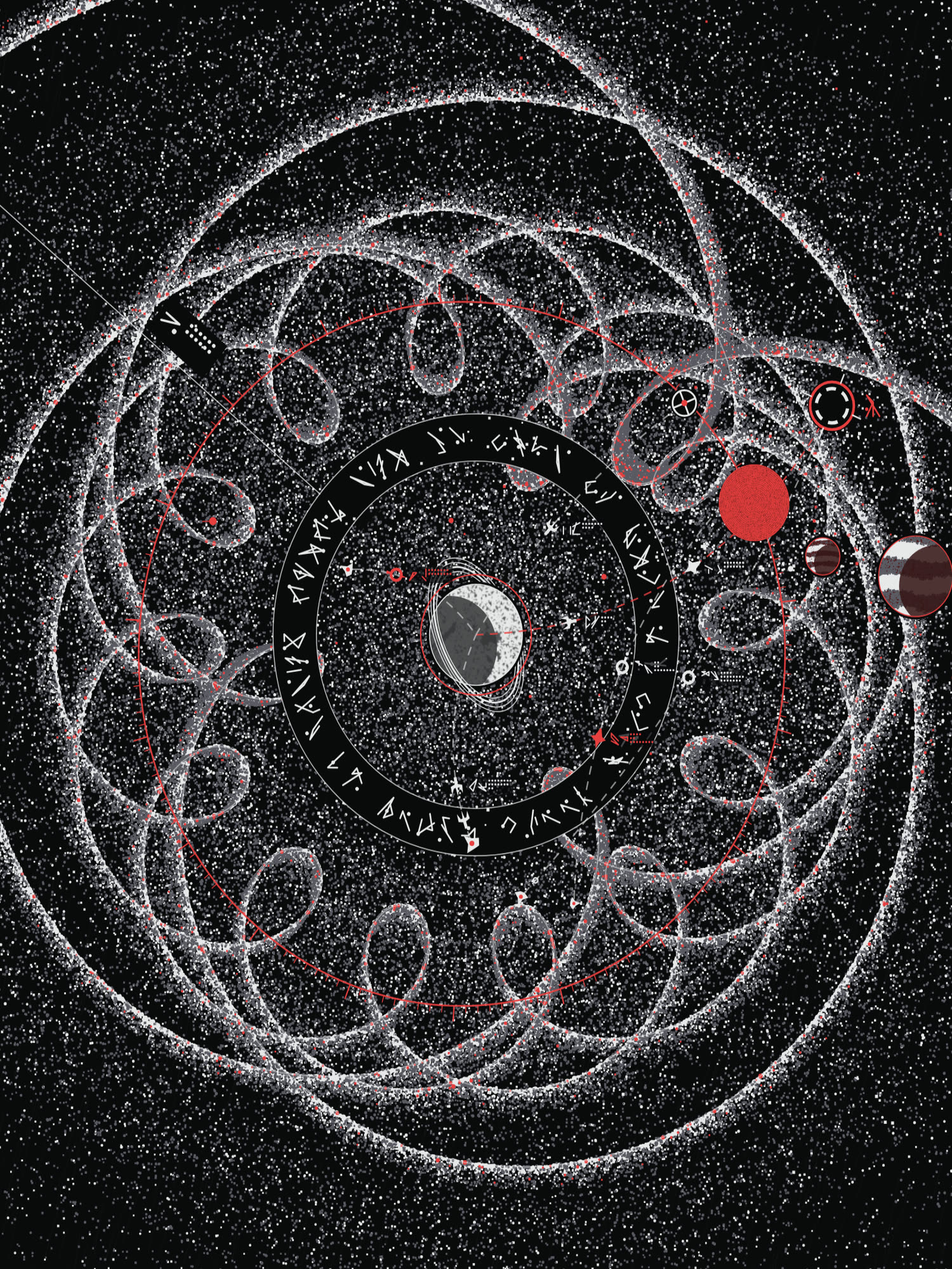
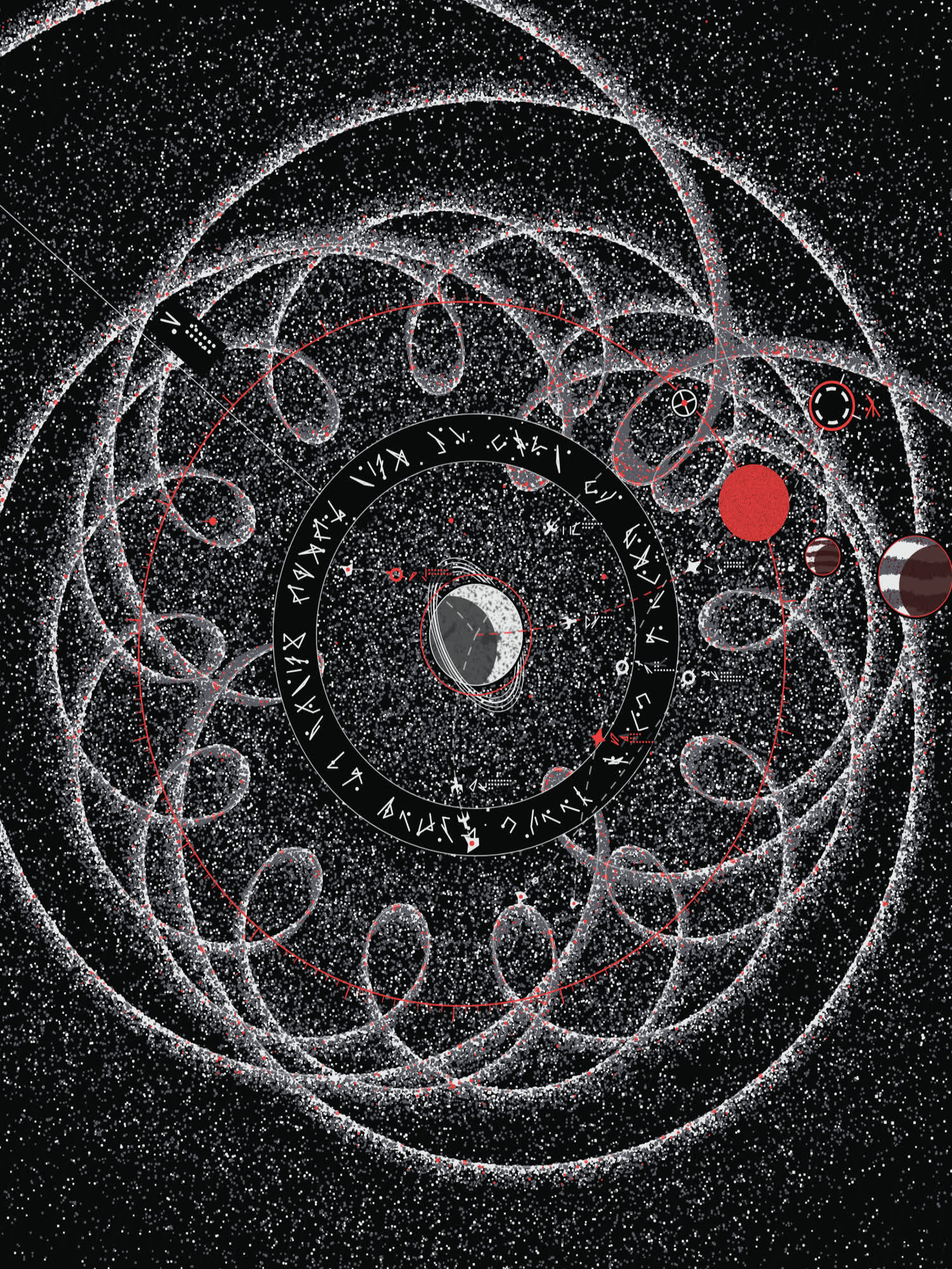
Lighten the Orrery capture for mobile data

diff --git a/AGENTS.md b/AGENTS.md
@@ -512,7 +512,7 @@ Last reviewed: 2026-09-02.
 
 ## 2026-11-06: Better Tech images
 
-- User's request: a better image or the new logo for the orrery, and better images for the other Tech entries. `images/tech/` is now 720x960 (`?v=2` in `site/tech.njk`; raise it when replacing them). Orrery: first the black hole app icon on black, then at the user's request a high-res capture of the engine (seed 314, carbon palette, `?still=1&wallpaper=1`, 800x1067 at 2x) in two sizes, 720 and 1500 px wide, chosen by `srcset`. Push 2: only the four pad decks from `cheatsheet.svg` (the full sheet in the push2-traktor repo still says "screen not used"). Bookings, Learning and ZAHABU: live sites at 600x800, taken 2026-11-06. Daisy: live site at 960x1280, cropped; its slides move, so check the frame when retaking. Each file is about 75 to 115 KB.
+- User's request: a better image or the new logo for the orrery, and better images for the other Tech entries. `images/tech/` is now 720x960 (`?v=2` in `site/tech.njk`; raise it when replacing them). Orrery: first the black hole app icon on black, then at the user's request a high-res capture of the engine (seed 314, carbon palette, `?still=1&wallpaper=1`, 800x1067 at 2x) in two sizes, 720 and 1500 px wide, chosen by `srcset`. Grain compresses badly: 720 px is about 204 KB (`-q:v 10`), 1500 px about 704 KB (`-q:v 8`). Push 2: only the four pad decks from `cheatsheet.svg` (the full sheet in the push2-traktor repo still says "screen not used"). Bookings, Learning and ZAHABU: live sites at 600x800, taken 2026-11-06. Daisy: live site at 960x1280, cropped; its slides move, so check the frame when retaking. Each file is about 75 to 115 KB.
 - `height="800"` on the Tech `<img>` forced a 300x800 box and cut the middle out of every image, so it's removed there and they now show at 3:4. The Works page has the same pattern and was left as it is: its photos looked fine and the user likes that page.
 - Portrait sizes: 820x1180, 1024x1366 and a real WebKit resize paint correctly. Headless Chrome screenshots at 1440x2000 and taller look grey, but the canvas holds the right pixels (mean brightness 237, no errors); treated as a capture quirk, not checked on a real tall screen.
 
@@ -525,4 +525,4 @@ After the push of 3f856da the live site served the repo's root files, not the bu
 - User's request: a section for lesson plans and assignments, and yes to the Pages fix. `site/lessons.njk` (`lessons.html`) is hand-written like Tech and lists the three existing learner workbooks, each with a page image (`images/lessons/`, 720x960 from the real page in light mode), its programme, and workbook and PDF links. "Lessons" sits after Tech in `nav.njk` and the static menus, and has its own world in the universe (`site_layer.js`, at least 10 worlds; `?v=universe2`). To add a lesson: add its folder under `lessons/` and one entry in `site/lessons.njk`.
 - Left out on purpose: lesson plans and facilitator guides (the Business of DJing plan is the user's Google Doc, the Santuri DNA guide a private claude.ai doc) because they may not be meant for learners; the user chose workbooks only for now. The untracked `lesson-10-mix-missions.html` and `Five Beats - SEMA.pdf` were deleted from the laptop at the user's request; they were never committed, so no copy is in git.
 - Pages source changed from "Deploy from a branch" (main, root) to GitHub Actions through the API (`build_type: workflow`), so only `deploy.yml` publishes.
-
+- One deploy (run 42291213810, a notes-only commit) failed with "Timeout reached" while GitHub Pages was syncing files; the next push deployed normally. If a deploy times out, re-run `deploy.yml`.
